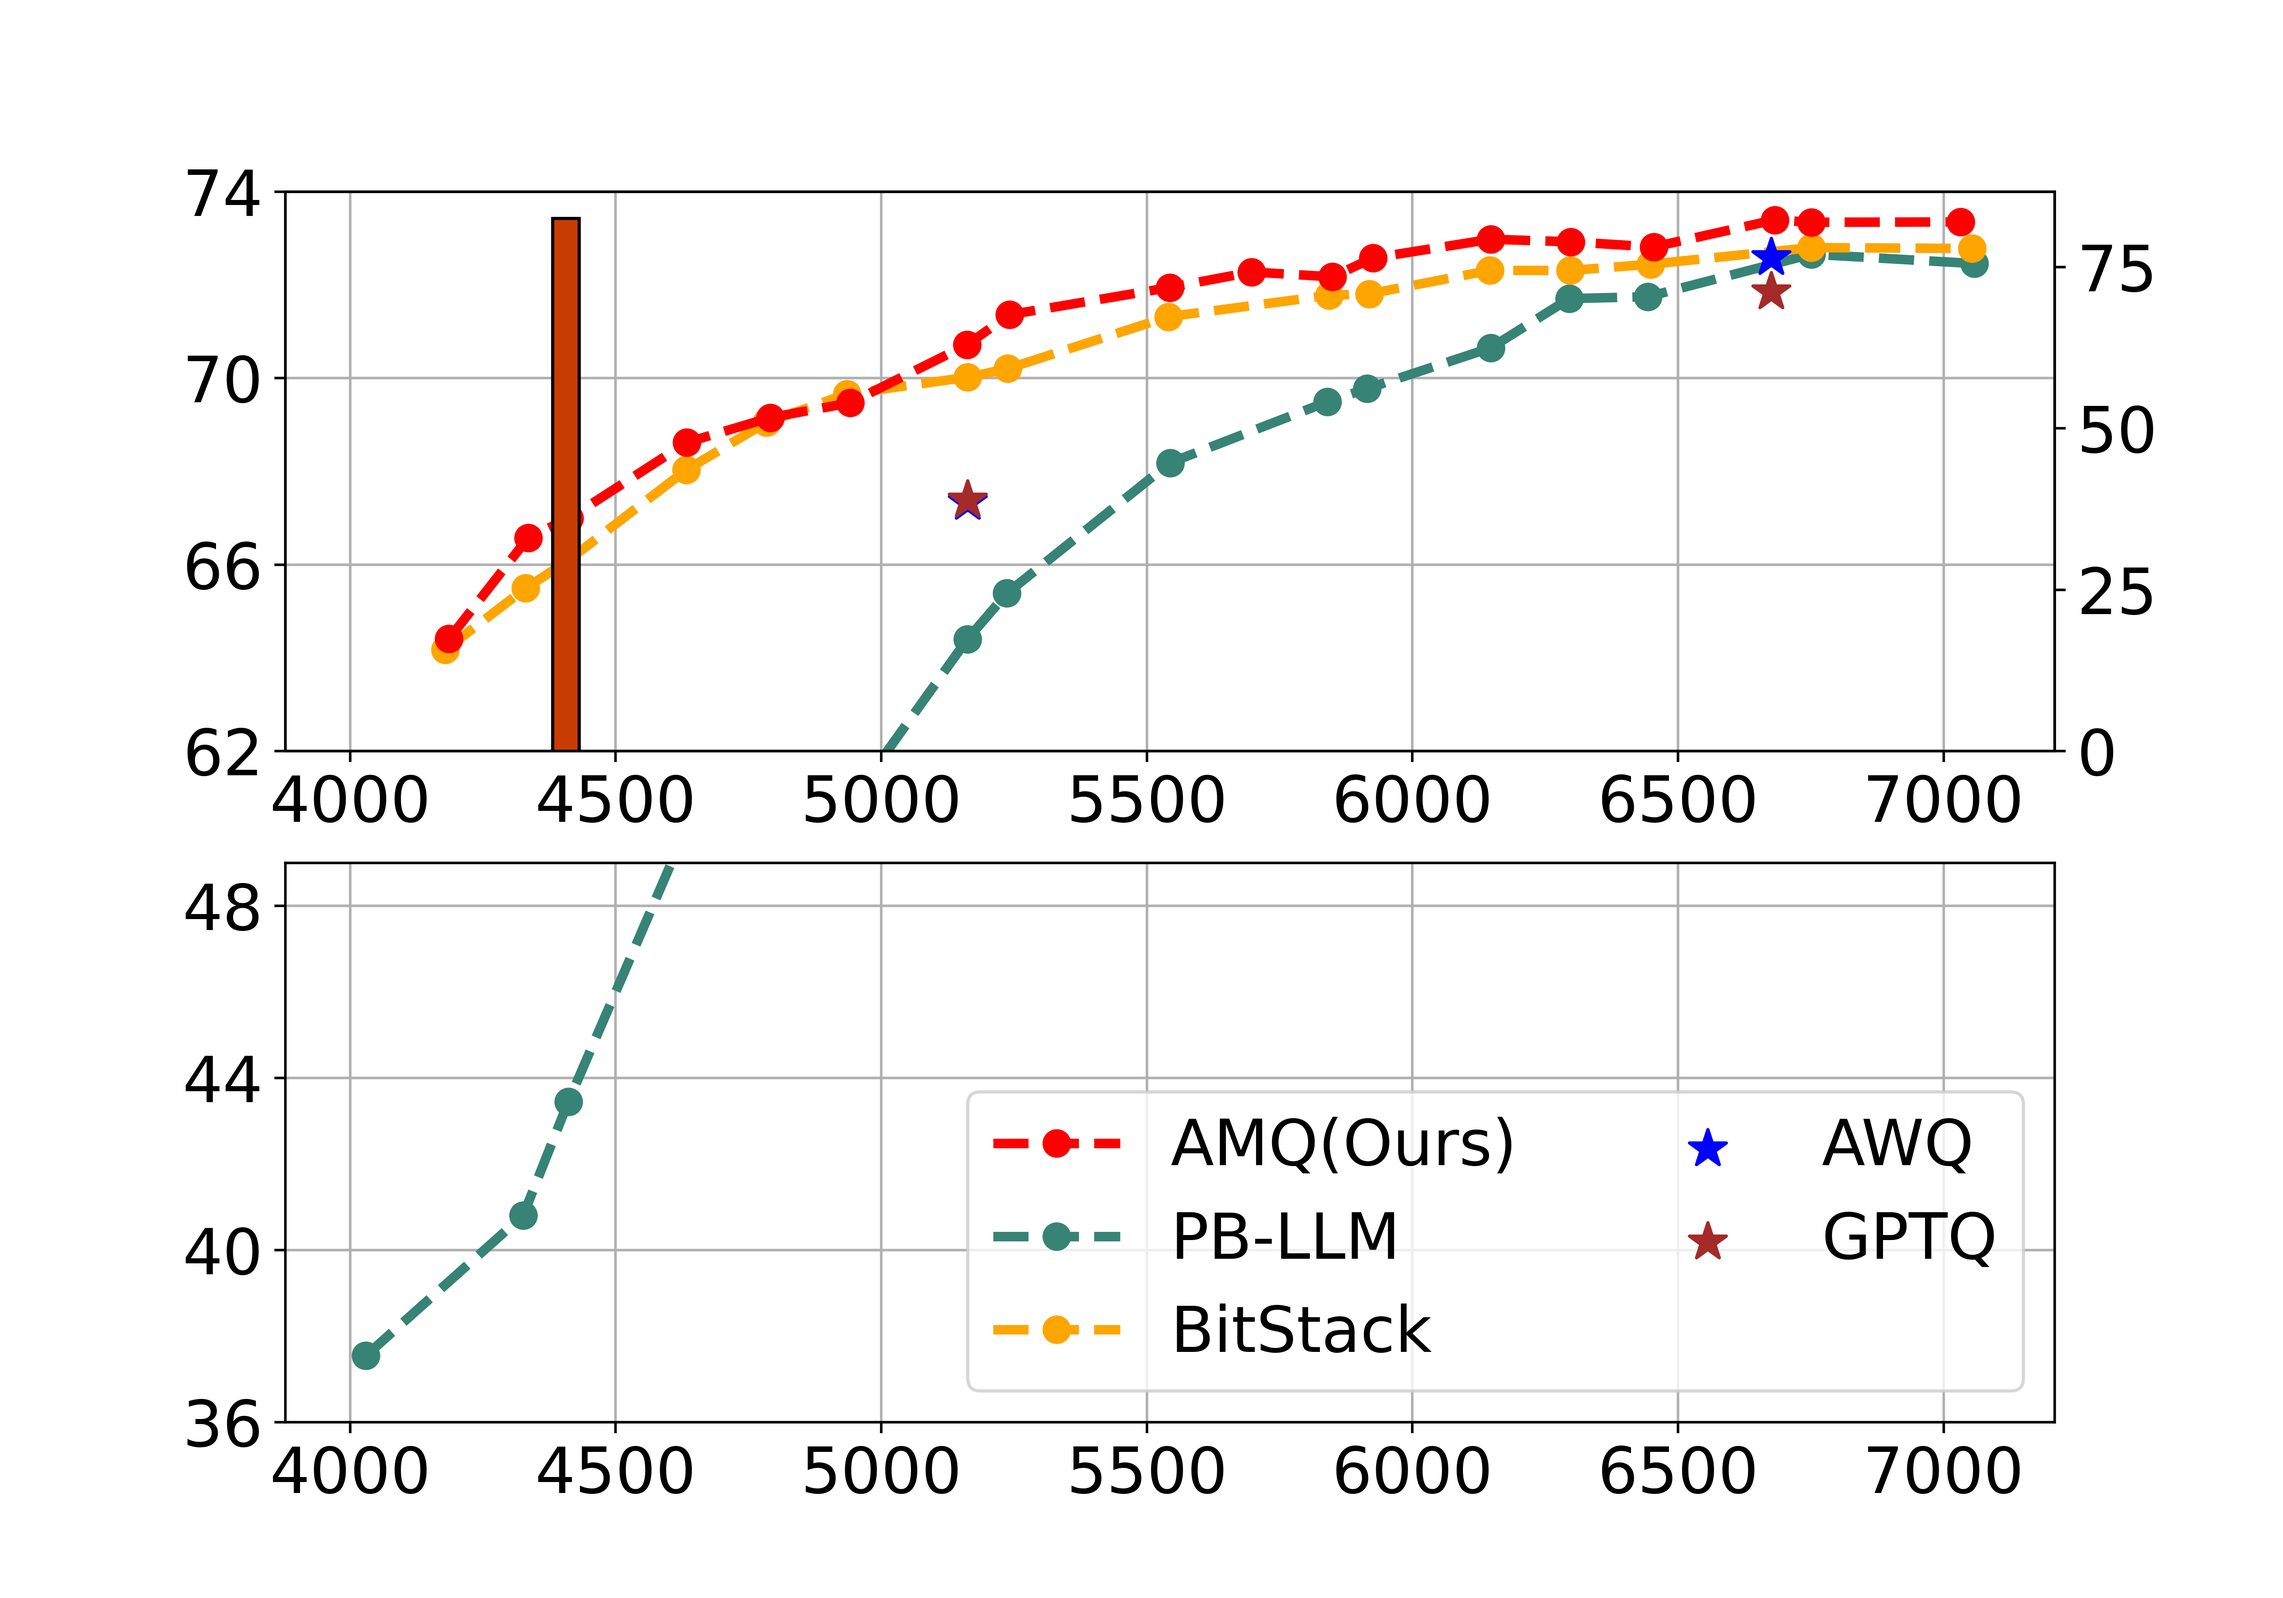
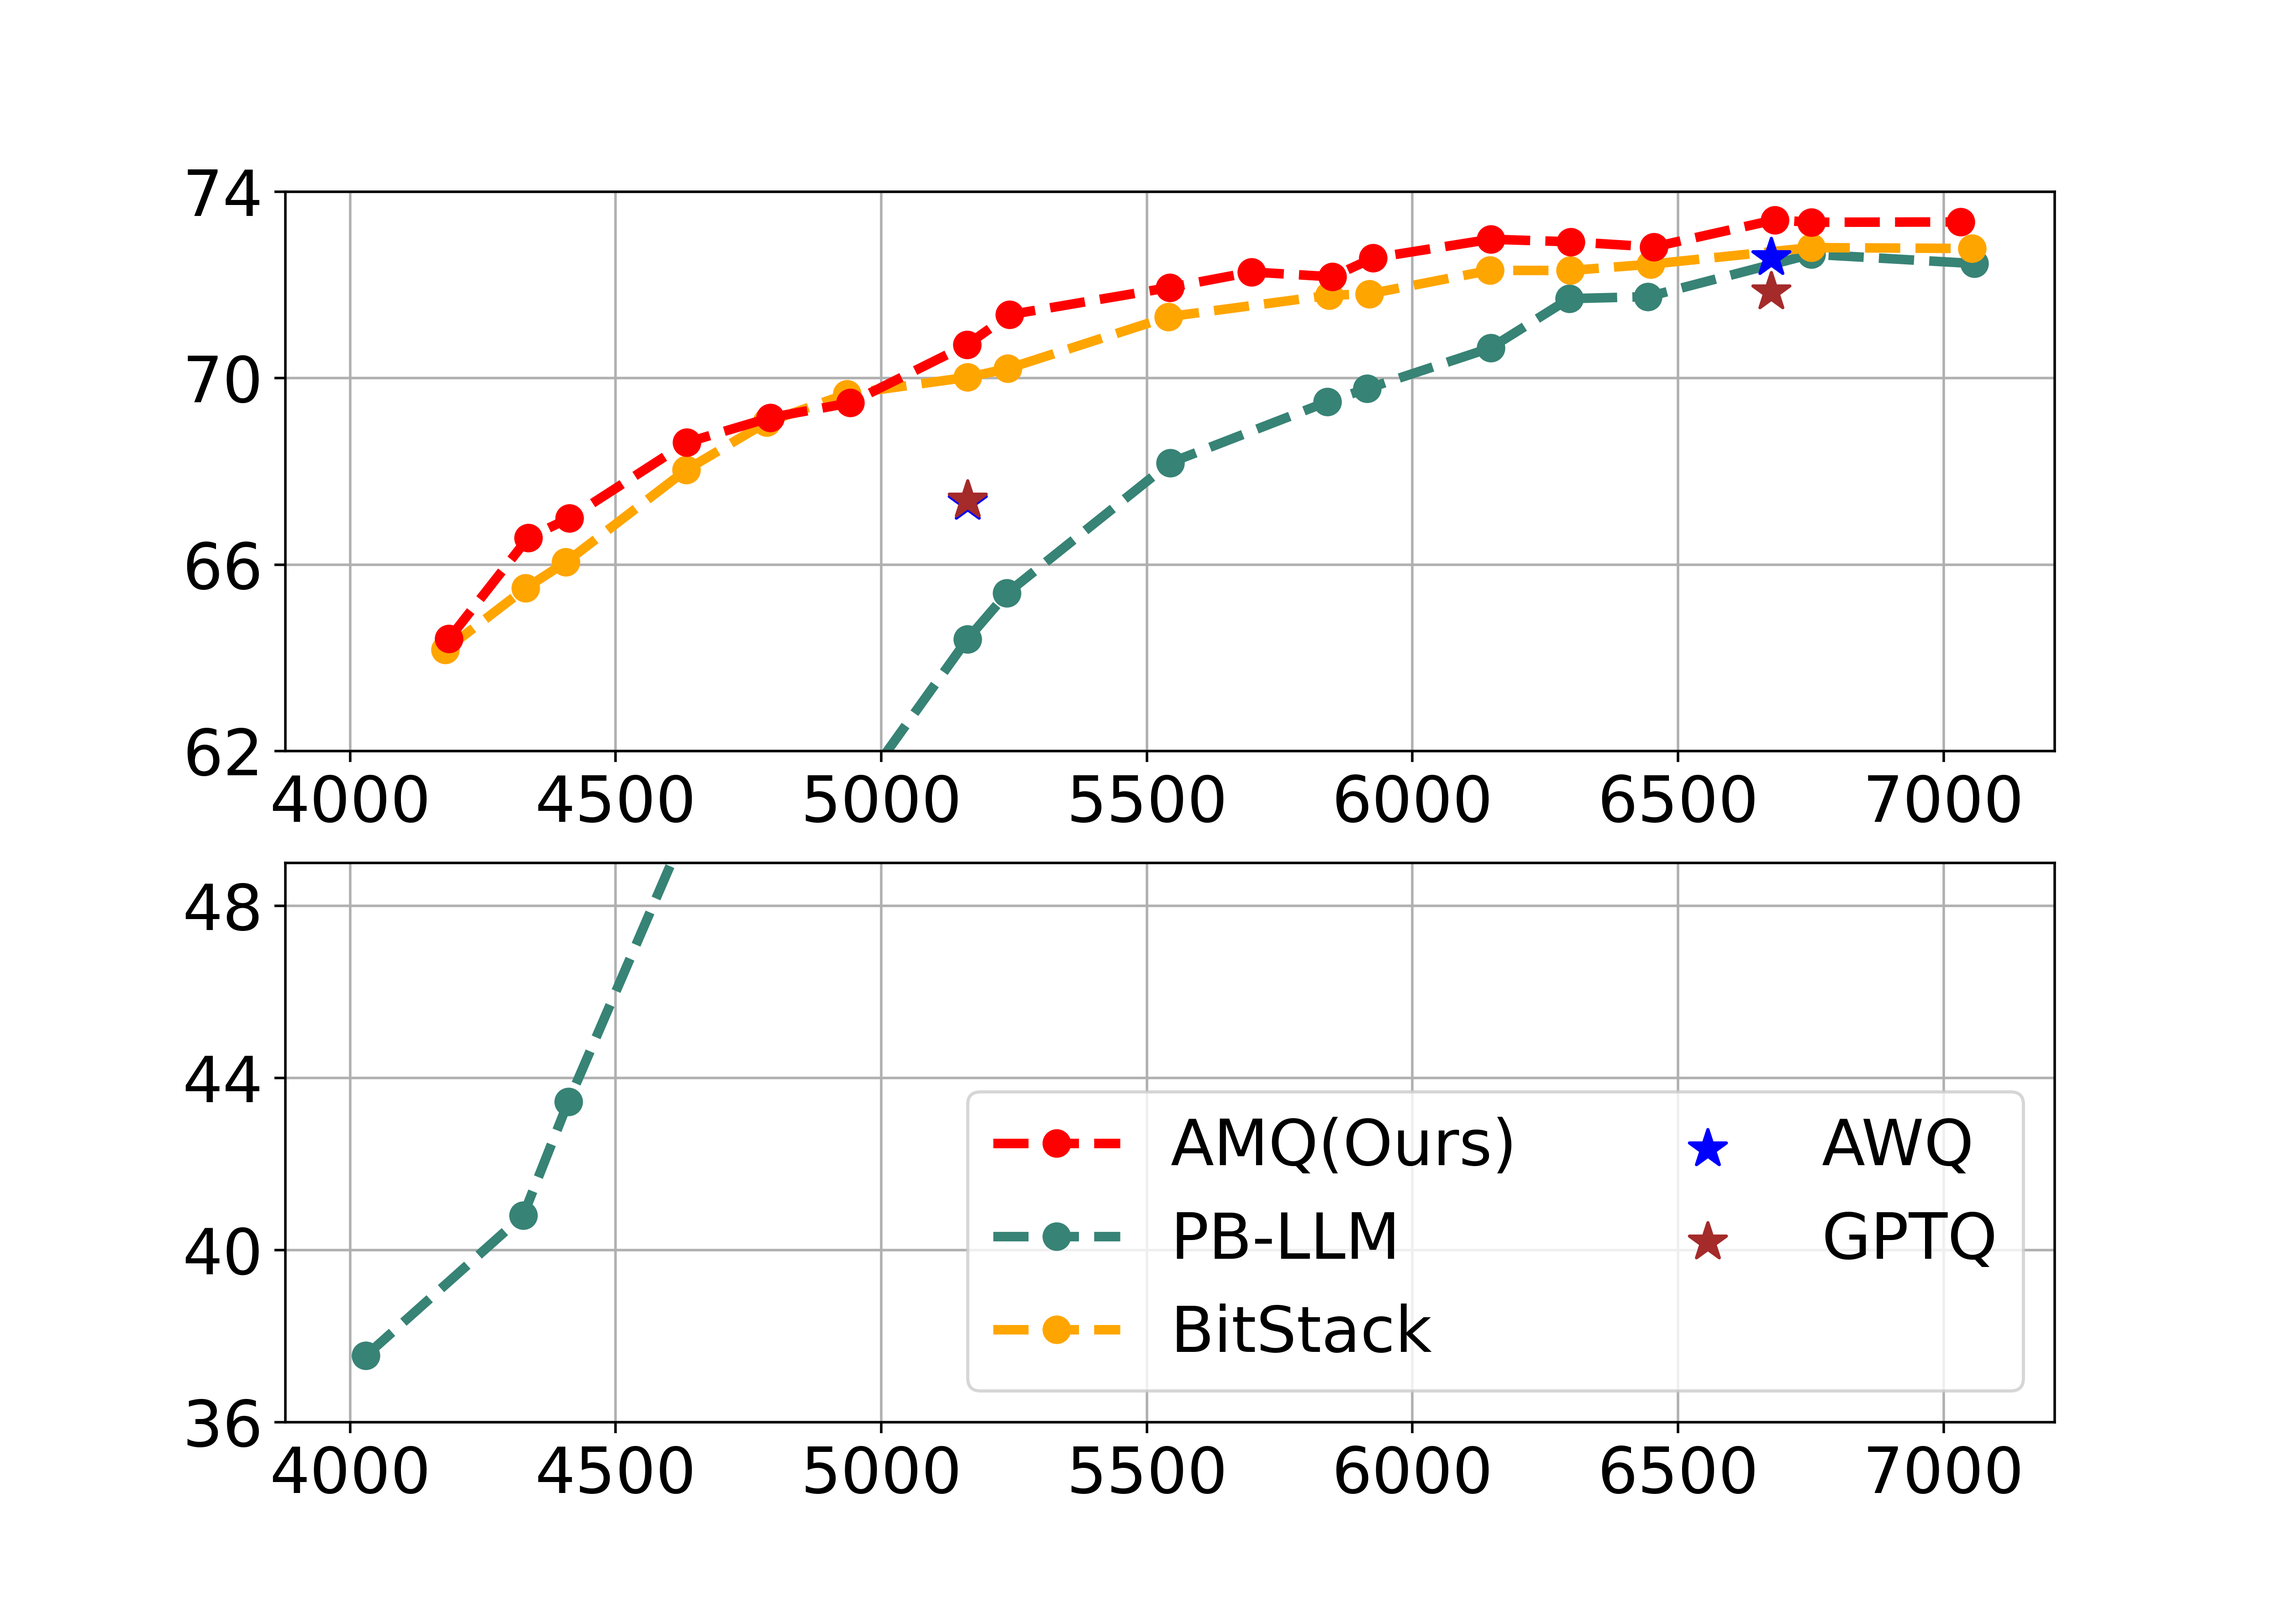
250512

diff --git a/acl/introduction/figure_1/visualize_memory.py b/acl/introduction/figure_1/visualize_memory.py
@@ -145,16 +145,16 @@ ax1[1].set_yticks(np.arange(36, 49, 4))
 ax1[0].tick_params(axis='both', which='major', labelsize=20)
 ax1[1].tick_params(axis='both', which='major', labelsize=20)
 
-bit = np.array([2.5])
-memory = [(bit - 0.25) * one_bit_memory + scale_zero_memory + embed_head_memory for bit in bit]
-fp16_13b_tps = 27.3062883732963
-bitstack_13b_fused_2_tps = [7.15578038, 6.273436638, 5.496908988]
-bitstack_13b_fused_3_tps = [11.89239396, 10.66521603, 9.800740556]
-amq_13b_tps = [70.42509431, 75.60473393, 82.53214564]
+# bit = np.array([2.5])
+# memory = [(bit - 0.25) * one_bit_memory + scale_zero_memory + embed_head_memory for bit in bit]
+# fp16_13b_tps = 27.3062883732963
+# bitstack_13b_fused_2_tps = [7.15578038, 6.273436638, 5.496908988]
+# bitstack_13b_fused_3_tps = [11.89239396, 10.66521603, 9.800740556]
+# amq_13b_tps = [70.42509431, 75.60473393, 82.53214564]
 
-ax2 = ax1[0].twinx()
-ax2.bar(memory, bitstack_13b_fused_2_tps, width=50, color=colors[3], label='BitStack-Fused-2', edgecolor = 'black', zorder = 1)
-ax2.bar(memory, amq_13b_tps, width=50, color=colors[2], label='AMQ', edgecolor = 'black', zorder = 1)
+# ax2 = ax1[0].twinx()
+# ax2.bar(memory, amq_13b_tps, width=50, color=colors[2], label='AMQ', edgecolor = 'black', zorder = 1)
+# ax2.bar(memory, bitstack_13b_fused_2_tps, width=50, color=colors[3], label='BitStack-Fused-2', edgecolor = 'black', zorder = 1)
 
 
 

diff --git a/search.py b/search.py
@@ -93,6 +93,7 @@ class Search:
         
         self.linear_sensitivity_file = kwargs.pop('linear_sensitivity_file' , '')
         self.iqr_threshold = kwargs.pop('iqr_threshold', 10)
+        pass_linear_list = []
         if self.linear_sensitivity_file:
             with open(self.linear_sensitivity_file, 'r') as f:
                 linear_list, sensitivity = list(csv.reader(f))
